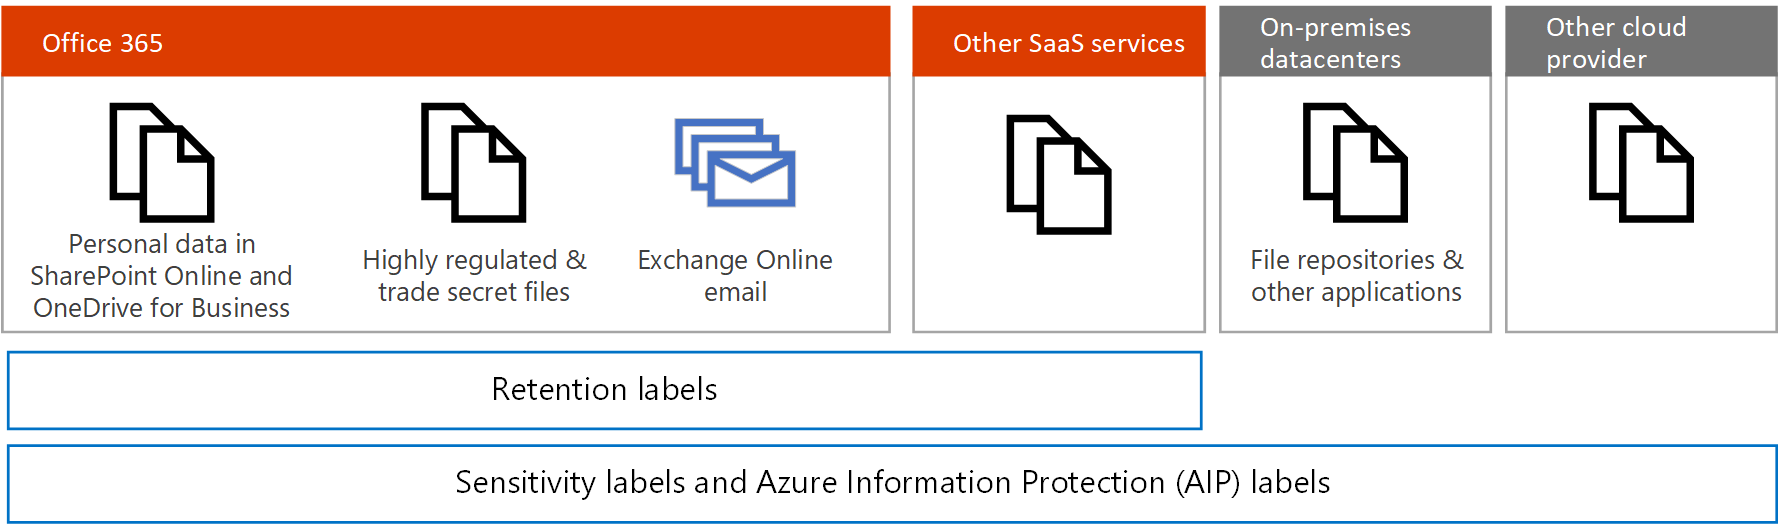
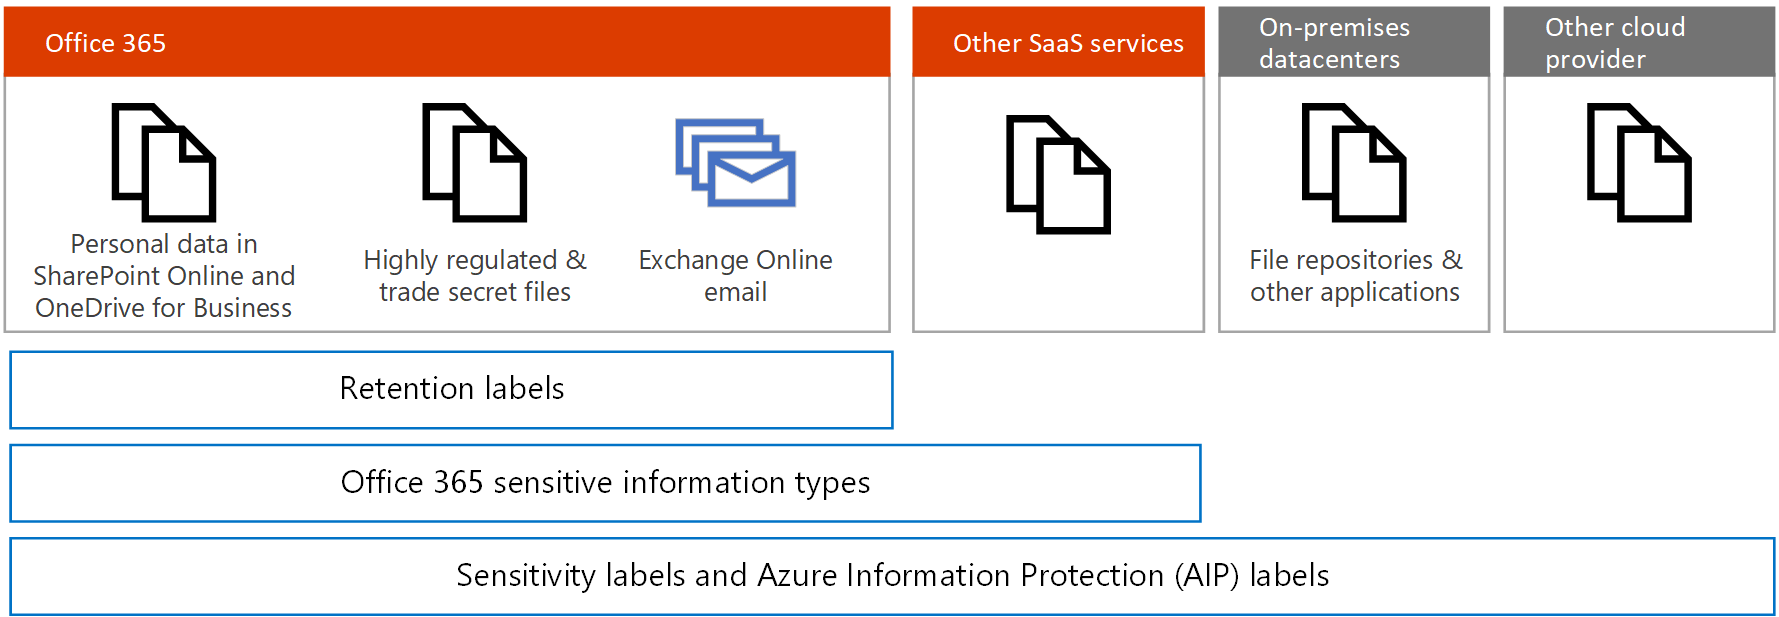
Updates

Changed region(s): [[0.0, 0.0, 1.0, 1.0], [0.5565, 0.1832, 0.6492, 0.458], [0.8347, 0.0, 0.8657, 0.0305]]

diff --git a/SecurityCompliance/apply-labels-to-personal-data-in-office-365.md b/SecurityCompliance/apply-labels-to-personal-data-in-office-365.md
@@ -24,15 +24,16 @@ description: "Learn how to use Office labels as part of your GDPR protection pla
 
 If you are using labels for protection of personal data in Office 365, Microsoft recommends you start with [retention labels](labels.md). With retention labels, you can:
 - Use Advanced Data Governance to automatically apply labels based on sensitive information types or other criteria.
--  Use retention labels with data loss prevention to apply protection. 
+- Use retention labels with data loss prevention to apply protection. 
 - Use labels with eDiscovery and Content Search. 
-- Use both labels and sensitive information types with Cloud App Security to monitor personal data that resides in other SaaS apps.
+
+Cloud App Security doesn't currently support retention labels, but you can use Office 365 information types with Cloud App Security to monitor personal data that resides in other SaaS apps.
 
 [Sensitivity labels](sensitivity-labels.md) are currently recommended for applying labels to files on premises and in other cloud services and providers. These are also recommended for files in Office 365 that require Azure Information Protection (AIP) encryption for data protection, such as trade secret files.
 
 At this time, using Azure Information Protection to apply encryption is not recommended for files in Office 365 with data that is subject to the GDPR. Office 365 services currently cannot read into AIP-encrypted files. Therefore, the service can’t find sensitive data in these files.
 
-Sensitivity labels can be applied to mail in Exchange Online and these labels work with Office 365 data loss prevention. 
+Retention labels can be applied to mail in Exchange Online and these labels work with Office 365 data loss prevention. 
 
 ![Office 365 labels and Azure Information Protection labels](Media/Apply-labels-to-personal-data-in-Office-365-image1.png)
 
@@ -40,7 +41,7 @@ Sensitivity labels can be applied to mail in Exchange Online and these labels wo
 In the illustration:
 
 -   Use retention labels for personal data and for highly regulated & trade secret files in SharePoint Online and OneDrive for Business.
-
+-   Office 365 sensitive information types can be used within Office 365 and with Cloud App Security to monintor personal data that resides in other SaaS apps.
 -   Use sensitivity labels for highly regulated & trade secret files, Exchange Online email, files in other SaaS services, files in on-premises datacenters, and files in other cloud providers.
 
 
@@ -73,8 +74,8 @@ For accessibility, the following table provides the same examples in the illustr
 <p>. . . to documents with this label . . .</p>
 <p>Customer data</p></td>
 <td align="left"><p>Alert when files with these attributes . . .</p>
-<p>&lt;predefined PII attribute -or- custom expression&gt;</p>
-<p>. . . in any sanctioned SaaS app are shared outside the organization</p></td>
+<p>Choose one or more attribute: predefined PII attribute, Office 365 sensitive information type, sensitivity label (AIP), custom expression</p>
+<p>. . . in any sanctioned SaaS app are shared outside the organization</p><p>Note: Retention labels are currently not supported in Cloud App Security.</td>
 </tr>
 <tr class="even">
 <td align="left">Sensitive information types. Examples: Belgium National Number, Credit Card Number, Croatia Identity Cart Number, Finland National ID</td>
@@ -85,7 +86,7 @@ For accessibility, the following table provides the same examples in the illustr
 <td align="left"><p>Apply this protection . . .</p>
 <p>&lt;define protection&gt;</p>
 <p>. . . to documents that match these sensitive information types&gt;</p></td>
-<td align="left">Note: Attributes coming soon to Cloud App Security include Office 365 sensitive information types and Unified labels across Office 365 and Azure Information Protection.</td>
+<td align="left"></td>
 </tr>
 </tbody>
 </table>
